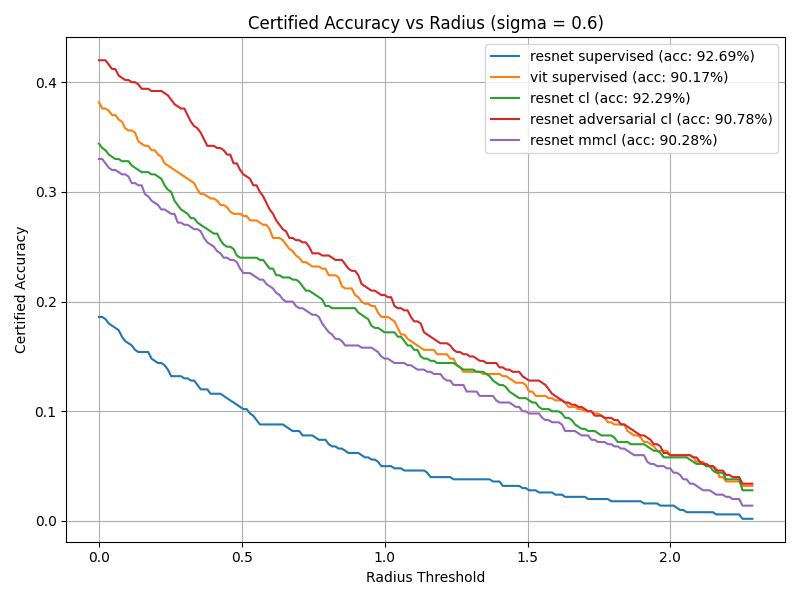
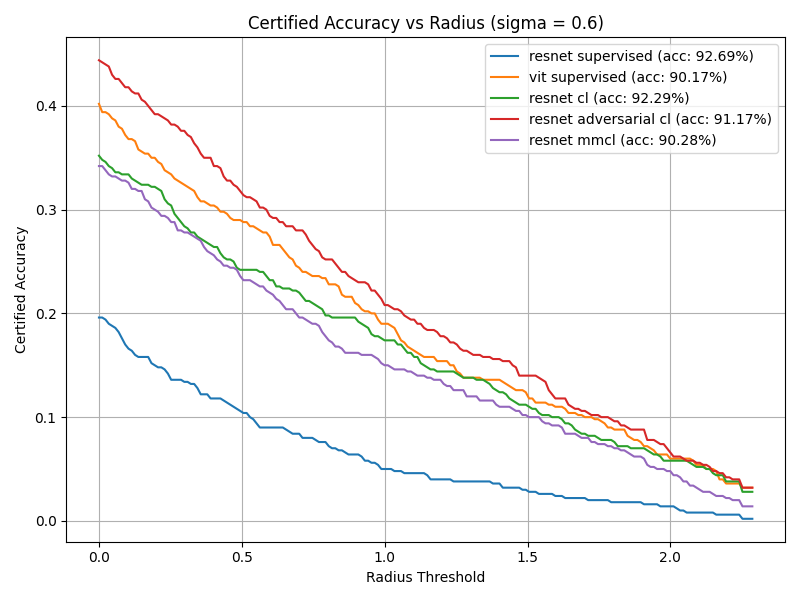
Small updates

diff --git a/plot_from_json/randomized_smoothing/randomized_smoothing_compute_resnet.py b/plot_from_json/randomized_smoothing/randomized_smoothing_compute_resnet.py
@@ -8,7 +8,7 @@ import pandas as pd
 from openpyxl import load_workbook
 from openpyxl.styles import Font
 
-file_name = "resnet_cl_nce-resnet_cl_barlow-resnet_cl_cosine-resnet_cl_info_nce"
+file_name = "resnet_supervised-vit_supervised-resnet_cl-resnet_adversarial_cl-resnet_mmcl"
 with open(f"rs_results/{file_name}.json", "r") as f:
     data = json.load(f)
 models_info = data["models_info"]
@@ -59,7 +59,7 @@ def plot_one_certified_accuracy_per_sigma(data):
         plt.title(f"Certified Accuracy vs Radius (sigma = {sigma})")
         plt.legend()
         plt.grid(True)
-        output_dir = os.path.join("plots", "randomized_smoothing", "resnet_cl")
+        output_dir = os.path.join("plots", "randomized_smoothing", "resnet_vt")
         os.makedirs(output_dir, exist_ok=True)
         output_filename = f"ca_sigma_{sigma}.png"
         plt.tight_layout()
@@ -112,7 +112,7 @@ def plot_one_unchanged_percentage_per_sigma(data):
         plt.title(f"Unchanged Percentage vs Radius (sigma = {sigma})")
         plt.legend()
         plt.grid(True)
-        output_dir = os.path.join("plots", "randomized_smoothing", "resnet_cl")
+        output_dir = os.path.join("plots", "randomized_smoothing", "resnet_vt")
         os.makedirs(output_dir, exist_ok=True)
         output_filename = f"up_sigma_{sigma}.png"
         plt.tight_layout()

diff --git a/plot_from_json/randomized_smoothing/randomized_smoothing_compute.py b/plot_from_json/randomized_smoothing/randomized_smoothing_compute.py
@@ -44,7 +44,7 @@ def plot_one_certified_accuracy_per_sigma(data):
             y_vals = []
             for r in x_vals:
                 count = sum(
-                    1 for rec in records if rec["radius"] >= r and rec["true_label"] == rec["rs_label"] == rec["predicted_label"]
+                    1 for rec in records if rec["radius"] >= r and rec["true_label"] == rec["rs_label"]
                 )
                 y_vals.append(count / total if total > 0 else 0)
             # Construct legend label with test accuracy

diff --git a/randomized_smoothing/compare_randomized_smoothing.py b/randomized_smoothing/compare_randomized_smoothing.py
@@ -50,9 +50,9 @@ models = [
         "model": "adversarial cl"
     },
     {
-        "encoder_ckpt": "models/regular_cl/finetune_regular_cl_info_nce_bs_512_lr_0.001.pkl",
+        "encoder_ckpt": "models/regular_cl/finetune_regular_cl_barlow_bs_512_lr_0.001.pkl",
         "load_classifier": True,
-        "model": "cl info_nce"
+        "model": "cl barlow"
     },
     {
         "encoder_ckpt": "models/supervised/supervised_cross_entropy_bs_256_lr_0.001.pkl",
